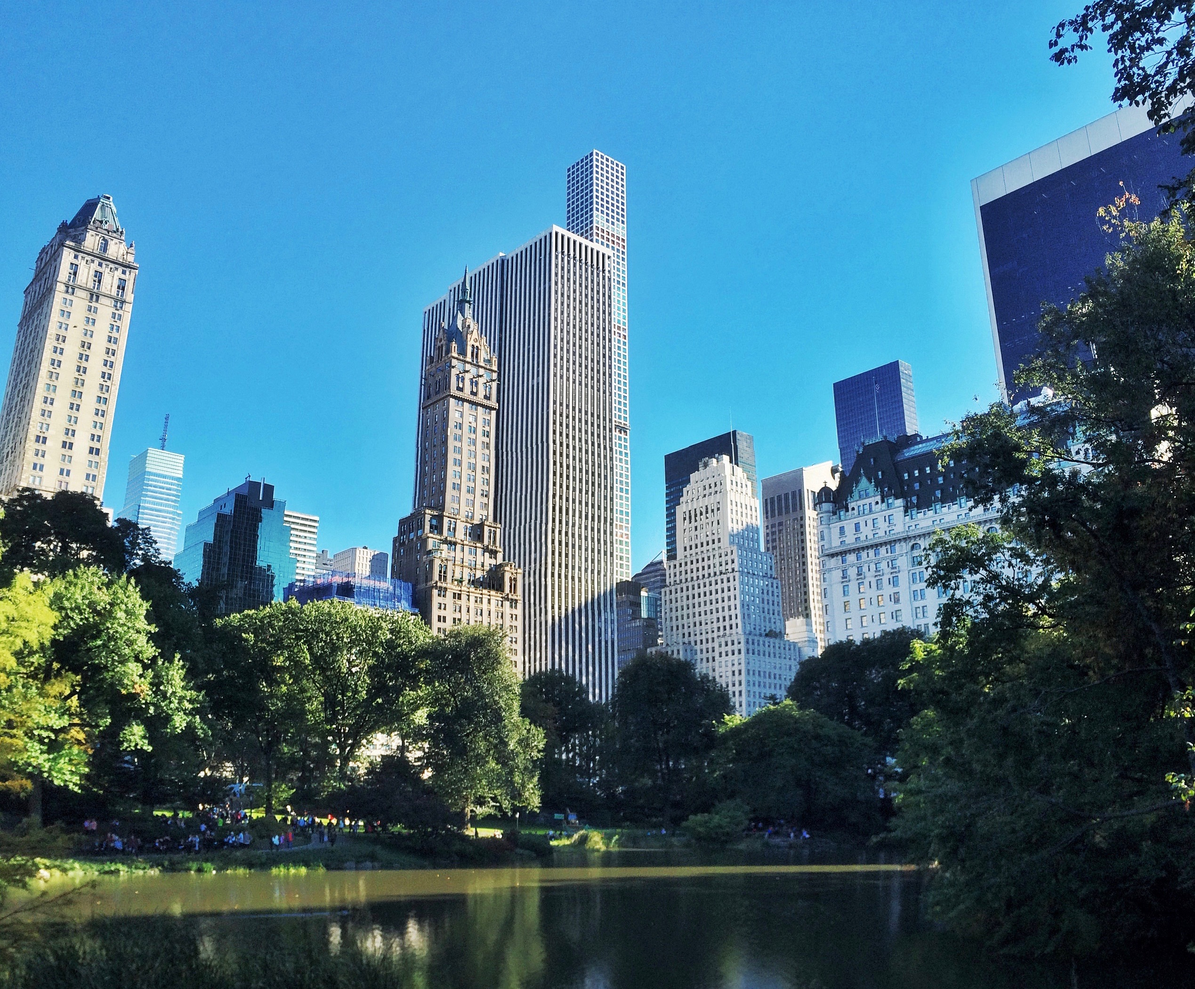
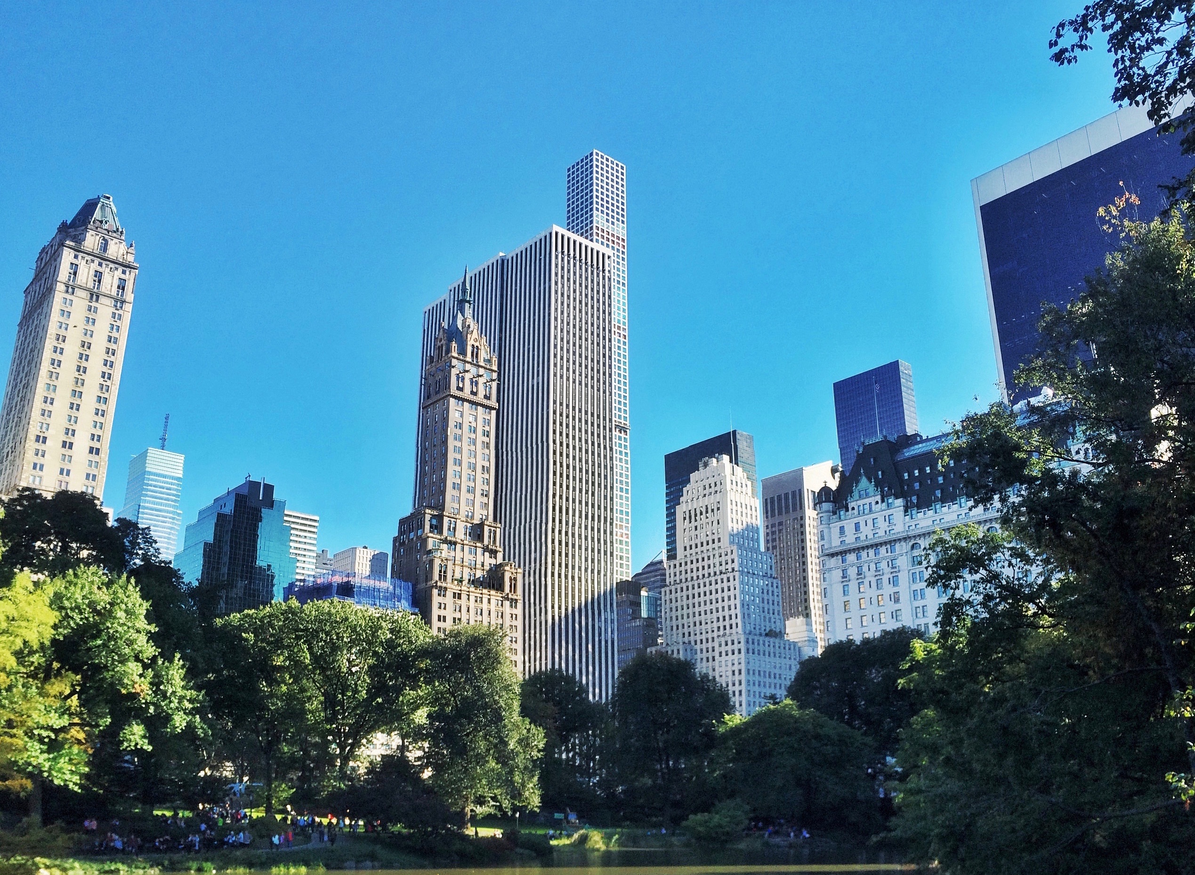
changed photo and button/link color

diff --git a/css/grayscale.css b/css/grayscale.css
@@ -34,7 +34,7 @@ p {
   }
 }
 a {
-  color: #46bba8;
+  color: #53C6E0;
   -webkit-transition: all 0.2s ease-in-out;
   -moz-transition: all 0.2s ease-in-out;
   transition: all 0.2s ease-in-out;
@@ -42,7 +42,7 @@ a {
 a:hover,
 a:focus {
   text-decoration: none;
-  color: #2a7166;
+  color: #AFD5DE;
 }
 .light {
   font-weight: 400;
@@ -253,15 +253,15 @@ a:focus {
   border-radius: 0;
 }
 .btn-default {
-  border: 1px solid #46bba8;
+  border: 1px solid #53C6E0;
   outline: none;
   color: black;
-  background-color: #46bba8;
+  background-color: #53C6E0;
 }
 .btn-default:hover,
 .btn-default:focus {
-  border: 1px solid #46bba8;
-  color: #46bba8;
+  border: 1px solid #53C6E0;
+  color: #53C6E0;
   background-color: transparent;
 }
 ul.banner-social-buttons {
